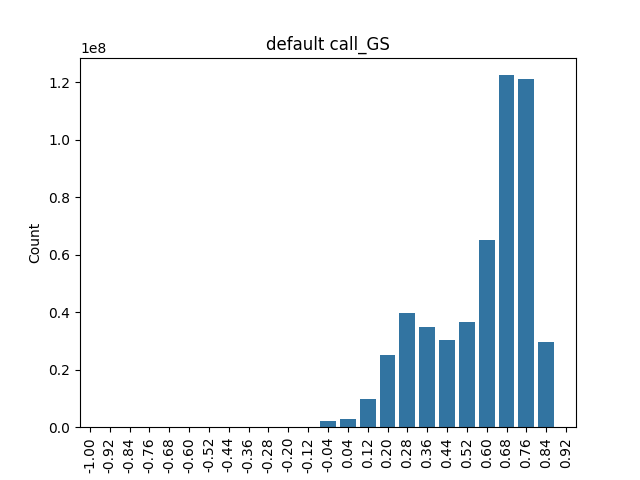
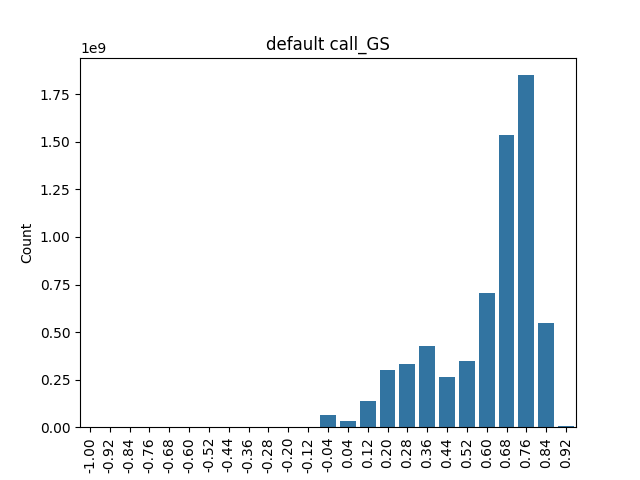
add stats for whole chr 22

diff --git a/ofh_example/README.md b/ofh_example/README.md
@@ -1,10 +1,11 @@
 ### Info
 
-One genotype file taken from [release 9](https://ourfuturehealth.gitbook.io/our-future-health/data/data-releases/2024-data-releases/release-9).
+Chromosome 22 genotype files taken from [release 9](https://ourfuturehealth.gitbook.io/our-future-health/data/data-releases/2024-data-releases/release-9).
 
-- chr 22 (block 3)
-- 814 variants
-- 651050 samples
+- chr 22
+- split across three block files
+- 10,221 variants
+- 651,050 samples
 
 Format fileds of interest
 - LRR: Log R Ratio (7 dp float)
@@ -17,11 +18,11 @@ Format fileds of interest
 ```
 INPUT_NAME=xxx
 
-time vcf2zarr explode --force -p 20 -Q $INPUT_NAME.vcf.gz $INPUT_NAME.icf
+time vcf2zarr explode --force -p 20 -Q ofh.chr22-b0.vcf.gz ofh.chr22-b1.vcf.gz ofh.chr22-b2.vcf.gz $INPUT_NAME.icf
 
-real	1m27.363s
-user	12m45.271s
-sys	    0m37.283s
+real    8m55.757s
+user    138m28.325s
+sys     2m36.004s
 ```
 
 ### Make schema
@@ -62,81 +63,125 @@ Create two new schemas with filters applied to largest format fields (`call_LRR`
 ```
 time vcf2zarr encode --force -p 20 -Q $INPUT_NAME.icf $INPUT_NAME.vcz
 
-real	6m32.662s
-user	6m32.180s
-sys	    0m12.640s
+real    45m13.790s
+user    47m19.185s
+sys     2m56.594s
 
-name                   dtype    stored      size            ratio    nchunks  chunk_size    avg_chunk_stored    shape             chunk_shape       compressor                                                      filters
----------------------  -------  ----------  -----------  --------  ---------  ------------  ------------------  ----------------  ----------------  --------------------------------------------------------------  ------------
-/call_LRR              float32  1.75 GiB    1.97 GiB       1.1           652  3.1 MiB       2.74 MiB            (814, 651050)     (10000, 1000)     Blosc(cname='zstd', clevel=7, shuffle=NOSHUFFLE, blocksize=0)   None
-/call_BAF              float32  1.17 GiB    1.97 GiB       1.7           652  3.1 MiB       1.83 MiB            (814, 651050)     (10000, 1000)     Blosc(cname='zstd', clevel=7, shuffle=NOSHUFFLE, blocksize=0)   None
-/call_GS               float32  190.35 MiB  1.97 GiB      11             652  3.1 MiB       298.95 KiB          (814, 651050)     (10000, 1000)     Blosc(cname='zstd', clevel=7, shuffle=NOSHUFFLE, blocksize=0)   None
-/call_genotype         int8     58.47 MiB   1010.81 MiB   17             652  1.55 MiB      91.83 KiB           (814, 651050, 2)  (10000, 1000, 2)  Blosc(cname='zstd', clevel=7, shuffle=BITSHUFFLE, blocksize=0)  None
-/call_genotype_mask    bool     10.76 MiB   1010.81 MiB   94             652  1.55 MiB      16.89 KiB           (814, 651050, 2)  (10000, 1000, 2)  Blosc(cname='zstd', clevel=7, shuffle=BITSHUFFLE, blocksize=0)  None
-/sample_id             object   3.19 MiB    4.97 MiB       1.6           652  7.8 KiB       5.01 KiB            (651050,)         (1000,)           Blosc(cname='zstd', clevel=7, shuffle=SHUFFLE, blocksize=0)     [VLenUTF8()]
-/call_genotype_phased  bool     555.95 KiB  505.4 MiB    930             652  793.76 KiB    873 bytes           (814, 651050)     (10000, 1000)     Blosc(cname='zstd', clevel=7, shuffle=BITSHUFFLE, blocksize=0)  None
-/variant_allele        object   9.25 KiB    12.72 KiB      1.4             1  12.72 KiB     9.25 KiB            (814, 2)          (10000, 2)        Blosc(cname='zstd', clevel=7, shuffle=NOSHUFFLE, blocksize=0)   [VLenUTF8()]
-/variant_filter        bool     8.5 KiB     814 bytes      0.093           1  814.0 bytes   8.5 KiB             (814, 1)          (10000, 1)        Blosc(cname='zstd', clevel=7, shuffle=BITSHUFFLE, blocksize=0)  None
-/variant_id            object   7.96 KiB    6.36 KiB       0.8             1  6.36 KiB      7.96 KiB            (814,)            (10000,)          Blosc(cname='zstd', clevel=7, shuffle=NOSHUFFLE, blocksize=0)   [VLenUTF8()]
-/variant_position      int32    7.11 KiB    3.18 KiB       0.45            1  3.18 KiB      7.11 KiB            (814,)            (10000,)          Blosc(cname='zstd', clevel=7, shuffle=NOSHUFFLE, blocksize=0)   None
-/contig_id             object   4.51 KiB    200 bytes      0.043           1  200.0 bytes   4.51 KiB            (25,)             (25,)             Blosc(cname='zstd', clevel=7, shuffle=SHUFFLE, blocksize=0)     [VLenUTF8()]
-/contig_length         int64    4.5 KiB     200 bytes      0.043           1  200.0 bytes   4.5 KiB             (25,)             (25,)             Blosc(cname='zstd', clevel=7, shuffle=SHUFFLE, blocksize=0)     None
-/variant_quality       float32  4.47 KiB    3.18 KiB       0.71            1  3.18 KiB      4.47 KiB            (814,)            (10000,)          Blosc(cname='zstd', clevel=7, shuffle=NOSHUFFLE, blocksize=0)   None
-/variant_contig        int8     4.46 KiB    814 bytes      0.18            1  814.0 bytes   4.46 KiB            (814,)            (10000,)          Blosc(cname='zstd', clevel=7, shuffle=NOSHUFFLE, blocksize=0)   None
-/variant_id_mask       bool     4.46 KiB    814 bytes      0.18            1  814.0 bytes   4.46 KiB            (814,)            (10000,)          Blosc(cname='zstd', clevel=7, shuffle=BITSHUFFLE, blocksize=0)  None
-/filter_id             object   4.43 KiB    8 bytes        0.0018          1  8.0 bytes     4.43 KiB            (1,)              (1,)              Blosc(cname='zstd', clevel=7, shuffle=SHUFFLE, blocksize=0)     [VLenUTF8()]
+name                   dtype    stored      size           ratio    nchunks  chunk_size    avg_chunk_stored    shape               chunk_shape       compressor
+                                filters
+---------------------  -------  ----------  ---------  ---------  ---------  ------------  ------------------  ------------------  ----------------  --------------------------------
+------------------------------  ------------
+/call_LRR              float32  22.16 GiB   24.79 GiB     1.1          1304  19.47 MiB     17.4 MiB            (10221, 651050)     (10000, 1000)     Blosc(cname='zstd', clevel=7, sh
+uffle=NOSHUFFLE, blocksize=0)   None
+/call_BAF              float32  15.22 GiB   24.79 GiB     1.6          1304  19.47 MiB     11.95 MiB           (10221, 651050)     (10000, 1000)     Blosc(cname='zstd', clevel=7, sh
+uffle=NOSHUFFLE, blocksize=0)   None
+/call_GS               float32  2.22 GiB    24.79 GiB    11            1304  19.47 MiB     1.74 MiB            (10221, 651050)     (10000, 1000)     Blosc(cname='zstd', clevel=7, sh
+uffle=NOSHUFFLE, blocksize=0)   None
+/call_genotype         int8     663.97 MiB  12.39 GiB    19            1304  9.73 MiB      521.4 KiB           (10221, 651050, 2)  (10000, 1000, 2)  Blosc(cname='zstd', clevel=7, sh
+uffle=BITSHUFFLE, blocksize=0)  None
+/call_genotype_mask    bool     84.7 MiB    12.39 GiB   150            1304  9.73 MiB      66.51 KiB           (10221, 651050, 2)  (10000, 1000, 2)  Blosc(cname='zstd', clevel=7, sh
+uffle=BITSHUFFLE, blocksize=0)  None
+/sample_id             object   3.19 MiB    4.97 MiB      1.6           652  7.8 KiB       5.01 KiB            (651050,)           (1000,)           Blosc(cname='zstd', clevel=7, shuffle=SHUFFLE, blocksize=0)     [VLenUTF8()]
+/call_genotype_phased  bool     1.08 MiB    6.2 GiB    5900            1304  4.87 MiB      869 bytes           (10221, 651050)     (10000, 1000)     Blosc(cname='zstd', clevel=7, shuffle=BITSHUFFLE, blocksize=0)  None
+/variant_id            object   40.83 KiB   79.85 KiB     2               2  39.93 KiB     20.42 KiB           (10221,)            (10000,)          Blosc(cname='zstd', clevel=7, shuffle=NOSHUFFLE, blocksize=0)   [VLenUTF8()]
+/variant_position      int32    39.03 KiB   39.93 KiB     1               2  19.96 KiB     19.52 KiB           (10221,)            (10000,)          Blosc(cname='zstd', clevel=7, shuffle=NOSHUFFLE, blocksize=0)   None
+/variant_allele        object   20.71 KiB   159.7 KiB     7.7             2  79.85 KiB     10.35 KiB           (10221, 2)          (10000, 2)        Blosc(cname='zstd', clevel=7, shuffle=NOSHUFFLE, blocksize=0)   [VLenUTF8()]
+/variant_filter        bool     12.55 KiB   9.98 KiB      0.8             2  4.99 KiB      6.28 KiB            (10221, 1)          (10000, 1)        Blosc(cname='zstd', clevel=7, shuffle=BITSHUFFLE, blocksize=0)  None
+/variant_quality       float32  4.51 KiB    39.93 KiB     8.8             2  19.96 KiB     2.26 KiB            (10221,)            (10000,)          Blosc(cname='zstd', clevel=7, shuffle=NOSHUFFLE, blocksize=0)   None
+/variant_contig        int8     4.51 KiB    9.98 KiB      2.2             2  4.99 KiB      2.25 KiB            (10221,)            (10000,)          Blosc(cname='zstd', clevel=7, shuffle=NOSHUFFLE, blocksize=0)   None
+/contig_id             object   4.51 KiB    200 bytes     0.043           1  200.0 bytes   4.51 KiB            (25,)               (25,)             Blosc(cname='zstd', clevel=7, shuffle=SHUFFLE, blocksize=0)     [VLenUTF8()]
+/variant_id_mask       bool     4.5 KiB     9.98 KiB      2.2             2  4.99 KiB      2.25 KiB            (10221,)            (10000,)          Blosc(cname='zstd', clevel=7, shuffle=BITSHUFFLE, blocksize=0)  None
+/contig_length         int64    4.5 KiB     200 bytes     0.043           1  200.0 bytes   4.5 KiB             (25,)               (25,)             Blosc(cname='zstd', clevel=7, shuffle=SHUFFLE, blocksize=0)     None
+/filter_id             object   4.43 KiB    8 bytes       0.0018          1  8.0 bytes     4.43 KiB            (1,)                (1,)              Blosc(cname='zstd', clevel=7, shuffle=SHUFFLE, blocksize=0)     [VLenUTF8()]
 
 time vcf2zarr encode --force -p 20 -Qs schema_bitround.json $INPUT_NAME.icf $INPUT_NAME.bitround.vcz
 
-real	11m46.174s
-user	11m29.312s
-sys	    0m29.800s
+real    100m0.285s
+user    103m53.963s
+sys     2m49.117s
 
-name                   dtype    stored      size            ratio    nchunks  chunk_size    avg_chunk_stored    shape             chunk_shape       compressor                                                      filters
----------------------  -------  ----------  -----------  --------  ---------  ------------  ------------------  ----------------  ----------------  --------------------------------------------------------------  ----------------------
-/call_LRR              float32  682.05 MiB  1.97 GiB       3             652  3.1 MiB       1.05 MiB            (814, 651050)     (10000, 1000)     Blosc(cname='zstd', clevel=7, shuffle=NOSHUFFLE, blocksize=0)   [BitRound(keepbits=5)]
-/call_BAF              float32  488.38 MiB  1.97 GiB       4.1           652  3.1 MiB       767.02 KiB          (814, 651050)     (10000, 1000)     Blosc(cname='zstd', clevel=7, shuffle=NOSHUFFLE, blocksize=0)   [BitRound(keepbits=5)]
-/call_GS               float32  87.58 MiB   1.97 GiB      23             652  3.1 MiB       137.55 KiB          (814, 651050)     (10000, 1000)     Blosc(cname='zstd', clevel=7, shuffle=NOSHUFFLE, blocksize=0)   [BitRound(keepbits=5)]
-/call_genotype         int8     58.47 MiB   1010.81 MiB   17             652  1.55 MiB      91.83 KiB           (814, 651050, 2)  (10000, 1000, 2)  Blosc(cname='zstd', clevel=7, shuffle=BITSHUFFLE, blocksize=0)  None
-/call_genotype_mask    bool     10.76 MiB   1010.81 MiB   94             652  1.55 MiB      16.89 KiB           (814, 651050, 2)  (10000, 1000, 2)  Blosc(cname='zstd', clevel=7, shuffle=BITSHUFFLE, blocksize=0)  None
-/sample_id             object   3.19 MiB    4.97 MiB       1.6           652  7.8 KiB       5.01 KiB            (651050,)         (1000,)           Blosc(cname='zstd', clevel=7, shuffle=SHUFFLE, blocksize=0)     [VLenUTF8()]
-/call_genotype_phased  bool     555.95 KiB  505.4 MiB    930             652  793.76 KiB    873 bytes           (814, 651050)     (10000, 1000)     Blosc(cname='zstd', clevel=7, shuffle=BITSHUFFLE, blocksize=0)  None
-/variant_allele        object   9.25 KiB    12.72 KiB      1.4             1  12.72 KiB     9.25 KiB            (814, 2)          (10000, 2)        Blosc(cname='zstd', clevel=7, shuffle=NOSHUFFLE, blocksize=0)   [VLenUTF8()]
-/variant_filter        bool     8.5 KiB     814 bytes      0.093           1  814.0 bytes   8.5 KiB             (814, 1)          (10000, 1)        Blosc(cname='zstd', clevel=7, shuffle=BITSHUFFLE, blocksize=0)  None
-/variant_id            object   7.96 KiB    6.36 KiB       0.8             1  6.36 KiB      7.96 KiB            (814,)            (10000,)          Blosc(cname='zstd', clevel=7, shuffle=NOSHUFFLE, blocksize=0)   [VLenUTF8()]
-/variant_position      int32    7.11 KiB    3.18 KiB       0.45            1  3.18 KiB      7.11 KiB            (814,)            (10000,)          Blosc(cname='zstd', clevel=7, shuffle=NOSHUFFLE, blocksize=0)   None
-/contig_id             object   4.51 KiB    200 bytes      0.043           1  200.0 bytes   4.51 KiB            (25,)             (25,)             Blosc(cname='zstd', clevel=7, shuffle=SHUFFLE, blocksize=0)     [VLenUTF8()]
-/contig_length         int64    4.5 KiB     200 bytes      0.043           1  200.0 bytes   4.5 KiB             (25,)             (25,)             Blosc(cname='zstd', clevel=7, shuffle=SHUFFLE, blocksize=0)     None
-/variant_quality       float32  4.47 KiB    3.18 KiB       0.71            1  3.18 KiB      4.47 KiB            (814,)            (10000,)          Blosc(cname='zstd', clevel=7, shuffle=NOSHUFFLE, blocksize=0)   None
-/variant_contig        int8     4.46 KiB    814 bytes      0.18            1  814.0 bytes   4.46 KiB            (814,)            (10000,)          Blosc(cname='zstd', clevel=7, shuffle=NOSHUFFLE, blocksize=0)   None
-/variant_id_mask       bool     4.46 KiB    814 bytes      0.18            1  814.0 bytes   4.46 KiB            (814,)            (10000,)          Blosc(cname='zstd', clevel=7, shuffle=BITSHUFFLE, blocksize=0)  None
-/filter_id             object   4.43 KiB    8 bytes        0.0018          1  8.0 bytes     4.43 KiB            (1,)              (1,)              Blosc(cname='zstd', clevel=7, shuffle=SHUFFLE, blocksize=0)     [VLenUTF8()]
+name                   dtype    stored       size           ratio    nchunks  chunk_size    avg_chunk_stored    shape               chunk_shape       compressor                                                      filters
+---------------------  -------  -----------  ---------  ---------  ---------  ------------  ------------------  ------------------  ----------------  -------------------------------
+-------------------------------  ----------------------
+/call_LRR              float32  8.41 GiB     24.79 GiB     2.9          1304  19.47 MiB     6.61 MiB            (10221, 651050)     (10000, 1000)     Blosc(cname='zstd', clevel=7, s
+huffle=NOSHUFFLE, blocksize=0)   [BitRound(keepbits=5)]
+/call_BAF              float32  6.14 GiB     24.79 GiB     4            1304  19.47 MiB     4.82 MiB            (10221, 651050)     (10000, 1000)     Blosc(cname='zstd', clevel=7, s
+huffle=NOSHUFFLE, blocksize=0)   [BitRound(keepbits=5)]
+/call_GS               float32  1021.24 MiB  24.79 GiB    25            1304  19.47 MiB     801.95 KiB          (10221, 651050)     (10000, 1000)     Blosc(cname='zstd', clevel=7, s
+huffle=NOSHUFFLE, blocksize=0)   [BitRound(keepbits=5)]
+/call_genotype         int8     663.97 MiB   12.39 GiB    19            1304  9.73 MiB      521.4 KiB           (10221, 651050, 2)  (10000, 1000, 2)  Blosc(cname='zstd', clevel=7, s
+huffle=BITSHUFFLE, blocksize=0)  None
+/call_genotype_mask    bool     84.7 MiB     12.39 GiB   150            1304  9.73 MiB      66.51 KiB           (10221, 651050, 2)  (10000, 1000, 2)  Blosc(cname='zstd', clevel=7, s
+huffle=BITSHUFFLE, blocksize=0)  None
+/sample_id             object   3.19 MiB     4.97 MiB      1.6           652  7.8 KiB       5.01 KiB            (651050,)           (1000,)           Blosc(cname='zstd', clevel=7, s
+huffle=SHUFFLE, blocksize=0)     [VLenUTF8()]
+/call_genotype_phased  bool     1.08 MiB     6.2 GiB    5900            1304  4.87 MiB      869 bytes           (10221, 651050)     (10000, 1000)     Blosc(cname='zstd', clevel=7, s
+huffle=BITSHUFFLE, blocksize=0)  None
+/variant_id            object   40.83 KiB    79.85 KiB     2               2  39.93 KiB     20.42 KiB           (10221,)            (10000,)          Blosc(cname='zstd', clevel=7, s
+huffle=NOSHUFFLE, blocksize=0)   [VLenUTF8()]
+/variant_position      int32    39.03 KiB    39.93 KiB     1               2  19.96 KiB     19.52 KiB           (10221,)            (10000,)          Blosc(cname='zstd', clevel=7, s
+huffle=NOSHUFFLE, blocksize=0)   None
+/variant_allele        object   20.71 KiB    159.7 KiB     7.7             2  79.85 KiB     10.35 KiB           (10221, 2)          (10000, 2)        Blosc(cname='zstd', clevel=7, s
+huffle=NOSHUFFLE, blocksize=0)   [VLenUTF8()]
+/variant_filter        bool     12.55 KiB    9.98 KiB      0.8             2  4.99 KiB      6.28 KiB            (10221, 1)          (10000, 1)        Blosc(cname='zstd', clevel=7, s
+huffle=BITSHUFFLE, blocksize=0)  None
+/variant_quality       float32  4.51 KiB     39.93 KiB     8.8             2  19.96 KiB     2.26 KiB            (10221,)            (10000,)          Blosc(cname='zstd', clevel=7, s
+huffle=NOSHUFFLE, blocksize=0)   None
+/variant_contig        int8     4.51 KiB     9.98 KiB      2.2             2  4.99 KiB      2.25 KiB            (10221,)            (10000,)          Blosc(cname='zstd', clevel=7, s
+huffle=NOSHUFFLE, blocksize=0)   None
+/contig_id             object   4.51 KiB     200 bytes     0.043           1  200.0 bytes   4.51 KiB            (25,)               (25,)             Blosc(cname='zstd', clevel=7, s
+huffle=SHUFFLE, blocksize=0)     [VLenUTF8()]
+/variant_id_mask       bool     4.5 KiB      9.98 KiB      2.2             2  4.99 KiB      2.25 KiB            (10221,)            (10000,)          Blosc(cname='zstd', clevel=7, s
+huffle=BITSHUFFLE, blocksize=0)  None
+/contig_length         int64    4.5 KiB      200 bytes     0.043           1  200.0 bytes   4.5 KiB             (25,)               (25,)             Blosc(cname='zstd', clevel=7, s
+huffle=SHUFFLE, blocksize=0)     None
+/filter_id             object   4.43 KiB     8 bytes       0.0018          1  8.0 bytes     4.43 KiB            (1,)                (1,)              Blosc(cname='zstd', clevel=7, s
+huffle=SHUFFLE, blocksize=0)     [VLenUTF8()]
 
 time vcf2zarr encode --force -p 20 -Qs schema_quantize.json $INPUT_NAME.icf $INPUT_NAME.quantize.vcz
 
-real	8m47.324s
-user	8m9.471s
-sys	    0m49.021s
+real    57m27.351s
+user    59m56.832s
+sys     3m31.366s
 
-name                   dtype    stored      size            ratio    nchunks  chunk_size    avg_chunk_stored    shape             chunk_shape       compressor                                                      filters
----------------------  -------  ----------  -----------  --------  ---------  ------------  ------------------  ----------------  ----------------  --------------------------------------------------------------  ---------------------------------
-/call_LRR              float32  1.3 GiB     1.97 GiB       1.5           652  3.1 MiB       2.04 MiB            (814, 651050)     (10000, 1000)     Blosc(cname='zstd', clevel=7, shuffle=NOSHUFFLE, blocksize=0)   [Quantize(digits=5, dtype='<f4')]
-/call_BAF              float32  911.2 MiB   1.97 GiB       2.2           652  3.1 MiB       1.4 MiB             (814, 651050)     (10000, 1000)     Blosc(cname='zstd', clevel=7, shuffle=NOSHUFFLE, blocksize=0)   [Quantize(digits=5, dtype='<f4')]
-/call_GS               float32  165.62 MiB  1.97 GiB      12             652  3.1 MiB       260.12 KiB          (814, 651050)     (10000, 1000)     Blosc(cname='zstd', clevel=7, shuffle=NOSHUFFLE, blocksize=0)   [Quantize(digits=5, dtype='<f4')]
-/call_genotype         int8     58.47 MiB   1010.81 MiB   17             652  1.55 MiB      91.83 KiB           (814, 651050, 2)  (10000, 1000, 2)  Blosc(cname='zstd', clevel=7, shuffle=BITSHUFFLE, blocksize=0)  None
-/call_genotype_mask    bool     10.76 MiB   1010.81 MiB   94             652  1.55 MiB      16.89 KiB           (814, 651050, 2)  (10000, 1000, 2)  Blosc(cname='zstd', clevel=7, shuffle=BITSHUFFLE, blocksize=0)  None
-/sample_id             object   3.19 MiB    4.97 MiB       1.6           652  7.8 KiB       5.01 KiB            (651050,)         (1000,)           Blosc(cname='zstd', clevel=7, shuffle=SHUFFLE, blocksize=0)     [VLenUTF8()]
-/call_genotype_phased  bool     555.95 KiB  505.4 MiB    930             652  793.76 KiB    873 bytes           (814, 651050)     (10000, 1000)     Blosc(cname='zstd', clevel=7, shuffle=BITSHUFFLE, blocksize=0)  None
-/variant_allele        object   9.25 KiB    12.72 KiB      1.4             1  12.72 KiB     9.25 KiB            (814, 2)          (10000, 2)        Blosc(cname='zstd', clevel=7, shuffle=NOSHUFFLE, blocksize=0)   [VLenUTF8()]
-/variant_filter        bool     8.5 KiB     814 bytes      0.093           1  814.0 bytes   8.5 KiB             (814, 1)          (10000, 1)        Blosc(cname='zstd', clevel=7, shuffle=BITSHUFFLE, blocksize=0)  None
-/variant_id            object   7.96 KiB    6.36 KiB       0.8             1  6.36 KiB      7.96 KiB            (814,)            (10000,)          Blosc(cname='zstd', clevel=7, shuffle=NOSHUFFLE, blocksize=0)   [VLenUTF8()]
-/variant_position      int32    7.11 KiB    3.18 KiB       0.45            1  3.18 KiB      7.11 KiB            (814,)            (10000,)          Blosc(cname='zstd', clevel=7, shuffle=NOSHUFFLE, blocksize=0)   None
-/contig_id             object   4.51 KiB    200 bytes      0.043           1  200.0 bytes   4.51 KiB            (25,)             (25,)             Blosc(cname='zstd', clevel=7, shuffle=SHUFFLE, blocksize=0)     [VLenUTF8()]
-/contig_length         int64    4.5 KiB     200 bytes      0.043           1  200.0 bytes   4.5 KiB             (25,)             (25,)             Blosc(cname='zstd', clevel=7, shuffle=SHUFFLE, blocksize=0)     None
-/variant_quality       float32  4.47 KiB    3.18 KiB       0.71            1  3.18 KiB      4.47 KiB            (814,)            (10000,)          Blosc(cname='zstd', clevel=7, shuffle=NOSHUFFLE, blocksize=0)   None
-/variant_contig        int8     4.46 KiB    814 bytes      0.18            1  814.0 bytes   4.46 KiB            (814,)            (10000,)          Blosc(cname='zstd', clevel=7, shuffle=NOSHUFFLE, blocksize=0)   None
-/variant_id_mask       bool     4.46 KiB    814 bytes      0.18            1  814.0 bytes   4.46 KiB            (814,)            (10000,)          Blosc(cname='zstd', clevel=7, shuffle=BITSHUFFLE, blocksize=0)  None
-/filter_id             object   4.43 KiB    8 bytes        0.0018          1  8.0 bytes     4.43 KiB            (1,)              (1,)              Blosc(cname='zstd', clevel=7, shuffle=SHUFFLE, blocksize=0)     [VLenUTF8()]
+name                   dtype    stored      size           ratio    nchunks  chunk_size    avg_chunk_stored    shape               chunk_shape       compressor
+                                filters
+---------------------  -------  ----------  ---------  ---------  ---------  ------------  ------------------  ------------------  ----------------  --------------------------------
+------------------------------  ---------------------------------
+/call_LRR              float32  16.4 GiB    24.79 GiB     1.5          1304  19.47 MiB     12.88 MiB           (10221, 651050)     (10000, 1000)     Blosc(cname='zstd', clevel=7, sh
+uffle=NOSHUFFLE, blocksize=0)   [Quantize(digits=5, dtype='<f4')]
+/call_BAF              float32  11.47 GiB   24.79 GiB     2.2          1304  19.47 MiB     9.01 MiB            (10221, 651050)     (10000, 1000)     Blosc(cname='zstd', clevel=7, sh
+uffle=NOSHUFFLE, blocksize=0)   [Quantize(digits=5, dtype='<f4')]
+/call_GS               float32  1.93 GiB    24.79 GiB    13            1304  19.47 MiB     1.52 MiB            (10221, 651050)     (10000, 1000)     Blosc(cname='zstd', clevel=7, sh
+uffle=NOSHUFFLE, blocksize=0)   [Quantize(digits=5, dtype='<f4')]
+/call_genotype         int8     663.97 MiB  12.39 GiB    19            1304  9.73 MiB      521.4 KiB           (10221, 651050, 2)  (10000, 1000, 2)  Blosc(cname='zstd', clevel=7, sh
+uffle=BITSHUFFLE, blocksize=0)  None
+/call_genotype_mask    bool     84.7 MiB    12.39 GiB   150            1304  9.73 MiB      66.51 KiB           (10221, 651050, 2)  (10000, 1000, 2)  Blosc(cname='zstd', clevel=7, sh
+uffle=BITSHUFFLE, blocksize=0)  None
+/sample_id             object   3.19 MiB    4.97 MiB      1.6           652  7.8 KiB       5.01 KiB            (651050,)           (1000,)           Blosc(cname='zstd', clevel=7, sh
+uffle=SHUFFLE, blocksize=0)     [VLenUTF8()]
+/call_genotype_phased  bool     1.08 MiB    6.2 GiB    5900            1304  4.87 MiB      869 bytes           (10221, 651050)     (10000, 1000)     Blosc(cname='zstd', clevel=7, sh
+uffle=BITSHUFFLE, blocksize=0)  None
+/variant_id            object   40.83 KiB   79.85 KiB     2               2  39.93 KiB     20.42 KiB           (10221,)            (10000,)          Blosc(cname='zstd', clevel=7, sh
+uffle=NOSHUFFLE, blocksize=0)   [VLenUTF8()]
+/variant_position      int32    39.03 KiB   39.93 KiB     1               2  19.96 KiB     19.52 KiB           (10221,)            (10000,)          Blosc(cname='zstd', clevel=7, sh
+uffle=NOSHUFFLE, blocksize=0)   None
+/variant_allele        object   20.71 KiB   159.7 KiB     7.7             2  79.85 KiB     10.35 KiB           (10221, 2)          (10000, 2)        Blosc(cname='zstd', clevel=7, sh
+uffle=NOSHUFFLE, blocksize=0)   [VLenUTF8()]
+/variant_filter        bool     12.55 KiB   9.98 KiB      0.8             2  4.99 KiB      6.28 KiB            (10221, 1)          (10000, 1)        Blosc(cname='zstd', clevel=7, sh
+uffle=BITSHUFFLE, blocksize=0)  None
+/variant_quality       float32  4.51 KiB    39.93 KiB     8.8             2  19.96 KiB     2.26 KiB            (10221,)            (10000,)          Blosc(cname='zstd', clevel=7, sh
+uffle=NOSHUFFLE, blocksize=0)   None
+/variant_contig        int8     4.51 KiB    9.98 KiB      2.2             2  4.99 KiB      2.25 KiB            (10221,)            (10000,)          Blosc(cname='zstd', clevel=7, sh
+uffle=NOSHUFFLE, blocksize=0)   None
+/contig_id             object   4.51 KiB    200 bytes     0.043           1  200.0 bytes   4.51 KiB            (25,)               (25,)             Blosc(cname='zstd', clevel=7, sh
+uffle=SHUFFLE, blocksize=0)     [VLenUTF8()]
+/variant_id_mask       bool     4.5 KiB     9.98 KiB      2.2             2  4.99 KiB      2.25 KiB            (10221,)            (10000,)          Blosc(cname='zstd', clevel=7, sh
+uffle=BITSHUFFLE, blocksize=0)  None
+/contig_length         int64    4.5 KiB     200 bytes     0.043           1  200.0 bytes   4.5 KiB             (25,)               (25,)             Blosc(cname='zstd', clevel=7, sh
+uffle=SHUFFLE, blocksize=0)     None
+/filter_id             object   4.43 KiB    8 bytes       0.0018          1  8.0 bytes     4.43 KiB            (1,)                (1,)              Blosc(cname='zstd', clevel=7, sh
+uffle=SHUFFLE, blocksize=0)     [VLenUTF8()]
 ```
 
 - each `.vcz` also has a CSV file created via `vcf2zarr inspect` in the `csvs` directory
@@ -144,11 +189,13 @@ name                   dtype    stored      size            ratio    nchunks  ch
 ### Compare data sizes
 
 ```
-3.3G	xxx.vcf.gz
-3.2G	xxx.icf
-3.2G	xxx.vcz
-1.4G	xxx.bitround.vcz
-2.5G	xxx.quantize.vcz
+20G	    ofh.chr22-b0.vcf.gz
+19G	    ofh.chr22-b1.vcf.gz
+3.3G    ofh.chr22-b2.vcf.gz
+41G	    ofh.chr22.icf
+41G	    ofh.chr22.vcz
+17G	    ofh.chr22.bitround.vcz
+31G     ofh.chr22.quantize.vcz
 ```
 
 ### Compare distributions 
@@ -194,9 +241,9 @@ for format_field in format_fields:
 
 | format field | filter type | mae | 
 | --- | --- |  --- |
-| call_LRR | bitround | 0.0007233350770547986 |
-| call_BAF | bitround | 0.0008083758875727654 |
-| call_GS | bitround | 0.0033126999624073505 |
-| call_LRR | quantize | 1.9064399339185911e-06 |
-| call_BAF | quantize | 1.1348728321536328e-06 |
-| call_GS | quantize | 1.925799779201043e-06 |
+| call_LRR | bitround | 0.0006934664561413229 |
+| call_BAF | bitround | 0.0007864997605793178 |
+| call_GS | bitround | 0.003377074608579278 |
+| call_LRR | quantize | 1.907108071463881e-06 |
+| call_BAF | quantize | 1.1768814829338226e-06 |
+| call_GS | quantize | 1.8836773278962937e-06 |
